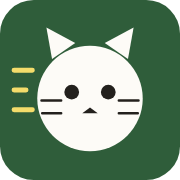
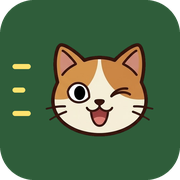
アイコンを ゲームの猫の顔から つくるように（仮アイコンを 置きかえ）
- tools/make_icons.py を追加：濃い緑の角丸に、右へ走る いきおいの線と
  猫の顔を 重ねて、icon-32/180/192/512 と assets/icon.png・favicon.png を 書き出す
- ちゃしろ（ウインク顔）で 生成。緑地との コントラストが よく、32pxでも 顔が わかる
- 役目を おえた assets/icon.svg を 削除し、README / プロンプト集を 更新

Claude-Session: https://claude.ai/code/session_01HxjYvjYGPovuiTxRVJBZQN

diff --git a/tools/make_icons.py b/tools/make_icons.py
@@ -1,0 +1,70 @@
+# -*- coding: utf-8 -*-
+"""
+ゲームの猫の顔から、アプリのアイコン一式をつくる。
+
+・濃い緑の角丸の上に 猫の顔を おき、左に 右へ走る いきおいの 線を 3本 入れる
+・app/images/icon-32 / 180 / 192 / 512.png と、紹介ページ用の
+  assets/icon.png（512px）・assets/favicon.png（64px）を 書き出す
+
+つかいかた:
+    python3 tools/make_icons.py [猫の顔のPNG]
+例:
+    python3 tools/make_icons.py app/images/face-chashiro.png
+
+必要なもの: pillow （pip install pillow）
+"""
+import os
+import sys
+
+from PIL import Image, ImageDraw
+
+BASE = 1024                    # 下ごしらえの 大きさ（ここから 縮小する）
+BG = (47, 93, 58, 255)         # --c-header と おなじ みどり
+LINE = (255, 227, 110, 255)    # --c-accent と おなじ きいろ
+FACE = 0.64                    # 顔が アイコンに 占める わりあい
+SHIFT = 0.055                  # まんなかより すこし 右へ（左の 線の ぶん）
+OUT = [
+    ('app/images/icon-512.png', 512),
+    ('app/images/icon-192.png', 192),
+    ('app/images/icon-180.png', 180),
+    ('app/images/icon-32.png', 32),
+    ('assets/icon.png', 512),
+    ('assets/favicon.png', 64),
+]
+
+
+def build(face_path):
+    icon = Image.new('RGBA', (BASE, BASE), (0, 0, 0, 0))
+    draw = ImageDraw.Draw(icon)
+    draw.rounded_rectangle([0, 0, BASE - 1, BASE - 1], radius=int(BASE * 0.19), fill=BG)
+
+    # 右へ 走る いきおいの 線（左はしに 3本）
+    w = int(BASE * 0.028)
+    for y, length in ((0.37, 0.10), (0.50, 0.07), (0.63, 0.10)):
+        y0 = int(BASE * y)
+        draw.rounded_rectangle(
+            [int(BASE * 0.07), y0 - w // 2, int(BASE * (0.07 + length)), y0 + w // 2],
+            radius=w // 2, fill=LINE)
+
+    face = Image.open(face_path).convert('RGBA')
+    size = int(BASE * FACE)
+    face = face.resize((size, size), Image.LANCZOS)
+    icon.alpha_composite(face, (int((BASE - size) / 2 + BASE * SHIFT), (BASE - size) // 2))
+    return icon
+
+
+def main():
+    face_path = sys.argv[1] if len(sys.argv) > 1 else 'app/images/face-chashiro.png'
+    if not os.path.exists(face_path):
+        print(f'× {face_path} が ありません')
+        return 1
+    icon = build(face_path)
+    for path, size in OUT:
+        os.makedirs(os.path.dirname(path), exist_ok=True)
+        icon.resize((size, size), Image.LANCZOS).save(path)
+        print(f'○ {path} ({size}px)')
+    return 0
+
+
+if __name__ == '__main__':
+    sys.exit(main())

diff --git a/docs/asset-prompts.md b/docs/asset-prompts.md
@@ -217,24 +217,21 @@ const BLOCKERS = {
 
 ---
 
-## 4. アイコン（あとまわしで可）
+## 4. アイコン
 
-いまのアイコンは `assets/icon.svg` から書き出した仮のものです。猫の絵ができたら同じ画風で作り直します。
+アイコンは **ゲームに出ている猫の顔から作ります**（画像生成AIは使いません）。
 
 ```
-スマートフォンのアプリアイコンを1枚つくってください。
-
-・正方形。背景は濃い緑（#2f5d3a）のベタ塗り
-・中央に、添付した猫の顔（同じ画風・同じ線の太さ）を大きく配置する
-・猫の左側に、右へ走っている勢いを表す黄色（#ffe36e）の短い横線を3本入れる
-・文字・ロゴ・枠線は入れない
-・1024×1024ピクセル
+pip install pillow
+python3 tools/make_icons.py app/images/face-chashiro.png
 ```
 
-必要なサイズは `icon-32.png` / `icon-180.png` / `icon-192.png` / `icon-512.png`、
-紹介ページ用に `assets/icon.png`（512px）と `assets/favicon.png`（64px）。
+濃い緑の角丸に、右へ走る勢いの黄色い線と猫の顔を重ねて、
+`app/images/icon-32 / 180 / 192 / 512.png` と `assets/icon.png`（512px）・
+`assets/favicon.png`（64px）を書き出します。別の猫にしたいときは引数を変えるだけです。
 
----
+小さく表示したときの見やすさで選ぶなら、地の緑と差がつく **ちゃしろ・ハチワレ・みけ** が向いています
+（くろねこは緑に沈み、キジトラは32pxだとつぶれます）。
 
 ## 5. 英語版プロンプト（日本語でうまく出ないとき）
 

diff --git a/README.md b/README.md
@@ -18,8 +18,7 @@
 | --- | --- |
 | `index.html` | 紹介ページ。ほかのツールと同じデザイン（`assets/site.css`） |
 | `assets/site.css` | 紹介ページの見た目。アクセント色はみどり `#3f8f57` |
-| `assets/icon.svg` | アイコンの元データ（仮。猫の絵ができたら差し替え） |
-| `assets/icon.png` / `assets/favicon.png` | 紹介ページ・OG画像用 |
+| `assets/icon.png` / `assets/favicon.png` | 紹介ページ・OG画像用（`tools/make_icons.py` が生成） |
 | `app/index.html` | ゲームの画面（ヘッダー／ばん／おおきなボタン／モーダル） |
 | `app/style.css` | 大きなUI・高コントラスト・アニメーション |
 | `app/main.js` | ゲームロジック・そろい判定・落下・連鎖・LocalStorage |
@@ -28,6 +27,7 @@
 | `app/images/tool-*.png` | どうぐの画像4種（ねこじゃらし よこ／たて・けいとだま・すず） |
 | `app/images/foe-*.png` | じゃまものの画像2種（いぬ・おおかみ） |
 | `tools/make_face.py` | 生成AIが出した顔の画像を、背景除去＋グリッドの切り分け＋正方形＋512pxに整える |
+| `tools/make_icons.py` | 猫の顔からアプリのアイコン一式をつくる |
 | `docs/asset-prompts.md` | 猫の顔を画像生成AIで作るときのプロンプト |
 
 ## 遊びかた
